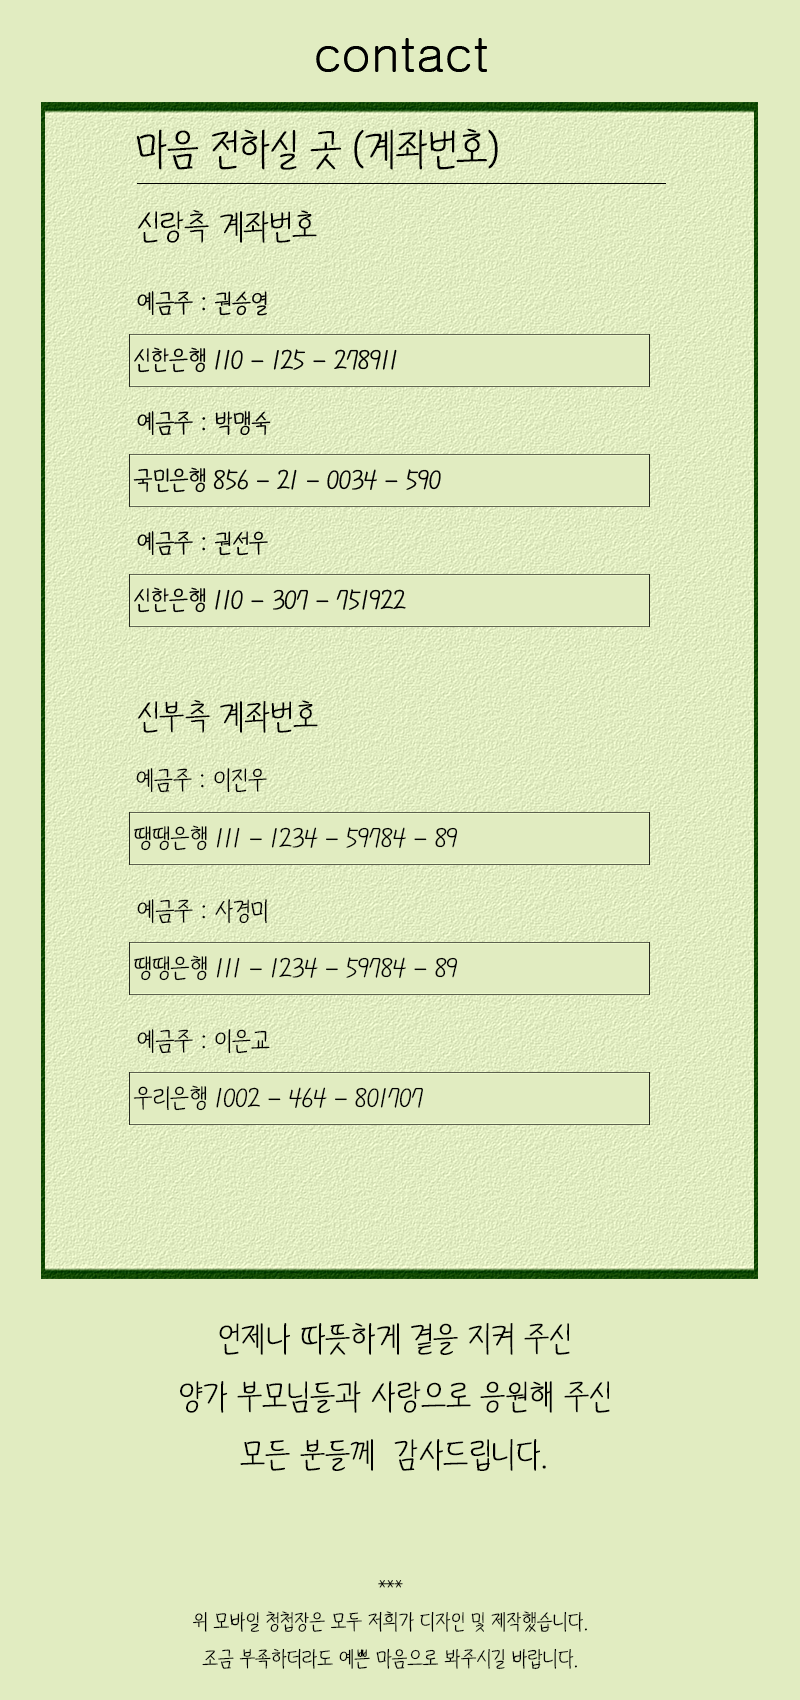
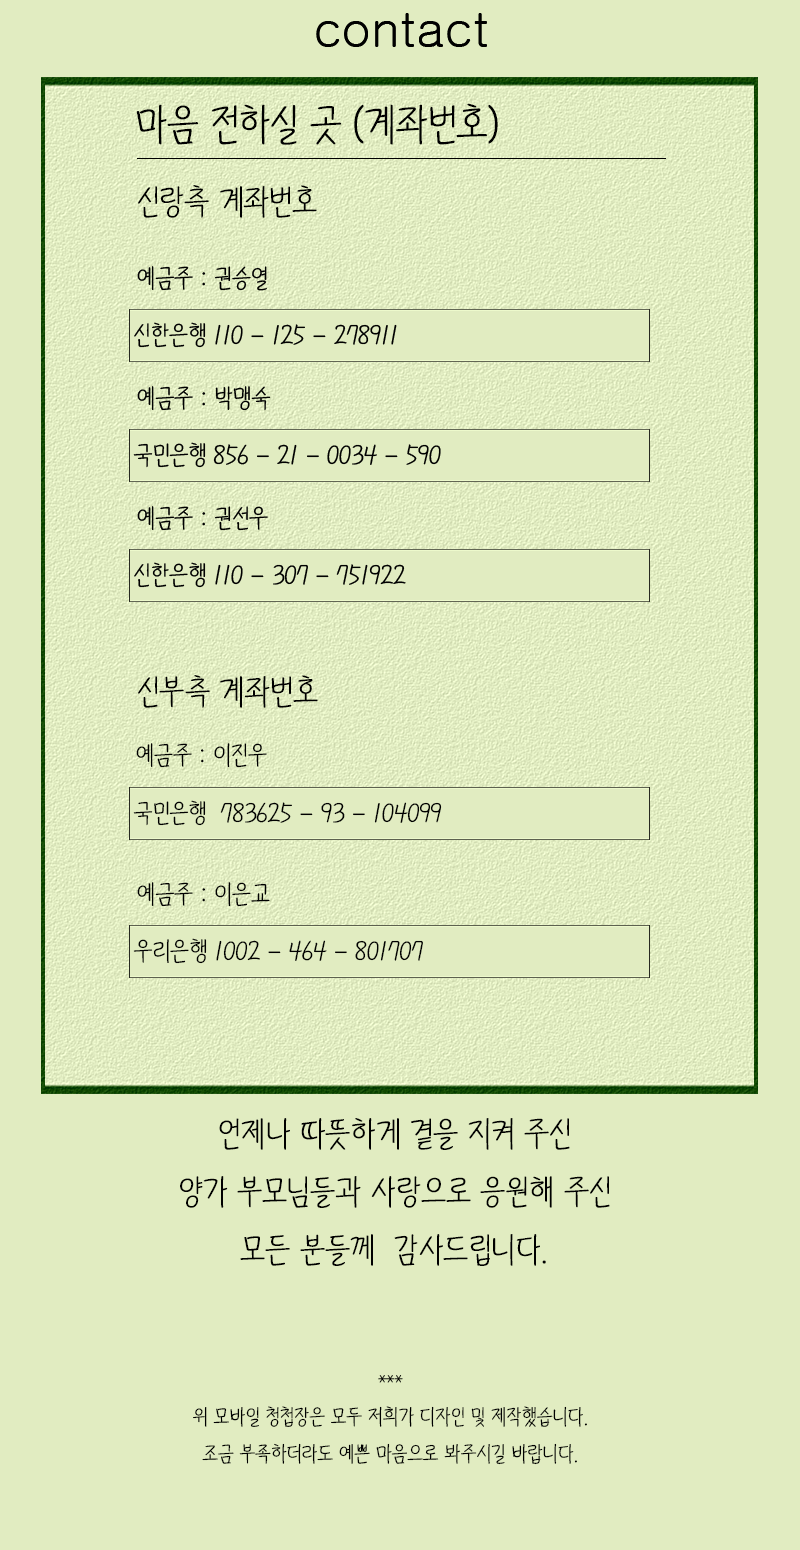
update

diff --git a/css/section.css b/css/section.css
@@ -208,7 +208,7 @@ margin-top: -2%;
 .gallary_back {
 
   position: relative;
-  margin-top: -5%;
+  margin-top: -1%;
     width: 100%;
 }
 
@@ -247,7 +247,7 @@ margin-top: -2%;
 }
 .icon1 {
     position: absolute;
-    top : 17%;
+    top : 17.1%;
     left : 70%;
     cursor: pointer;
     /* display: inline-block; */
@@ -259,7 +259,7 @@ margin-top: -2%;
 }
 .icon2 {
     position: absolute;
-    top : 24.4%;
+    top : 25.2%;
     left : 70%;
     cursor: pointer;
     /* display: inline-block; */
@@ -271,7 +271,7 @@ margin-top: -2%;
 }
 .icon3 {
     position: absolute;
-    top : 31.6%;
+    top : 33.2%;
     left : 70%;
     cursor: pointer;
     /* display: inline-block; */
@@ -283,7 +283,7 @@ margin-top: -2%;
 }
 .icon4 {
     position: absolute;
-    top : 46.1%;
+    top : 49.2%;
     left : 70%;
     cursor: pointer;
     /* display: inline-block; */
@@ -307,7 +307,7 @@ margin-top: -2%;
 }
 .icon5 {
     position: absolute;
-    top : 54.1%;
+    top : 58.4%;
     left : 70%;
     cursor: pointer;
     /* display: inline-block; */
@@ -317,22 +317,11 @@ margin-top: -2%;
     z-index: 200;
     user-select: none;
 }
-.icon6 {
-    position: absolute;
-    top : 62.1%;
-    left : 70%;
-    cursor: pointer;
-    /* display: inline-block; */
-    /* padding: 10px; */
-    background-color: #f0f0f0;
-    border-radius: 5px;
-    z-index: 200;
-    user-select: none;
-}
+
 .icon_link {
     position: absolute;
 
-    top : 87%;
+    top : 82%;
     left : 19%;
     cursor: pointer;
 

diff --git a/index.html b/index.html
@@ -153,15 +153,13 @@
       <img class = "icon_img" src="./src/contact/copy_button.png"/>
     </div>
 
-    <div class="icon4" onclick="copyToClipboard('110125278911', '계좌번호 110-125-278911 이 저장되었습니다.')">
+    <div class="icon4" onclick="copyToClipboard('78362593104099', '계좌번호 783625-93-104099 이 저장되었습니다.')">
       <img class = "icon_img" src="./src/contact/copy_button.png"/>
     </div>
-    <div class="icon5" onclick="copyToClipboard('856210034590', '계좌번호 856-21-0034-590 이 저장되었습니다.')">
+    <div class="icon5" onclick="copyToClipboard('1002464801707', '계좌번호 1002-464-801707 이 저장되었습니다.')">
       <img class = "icon_img" src="./src/contact/copy_button.png"/>
     </div>
-    <div class="icon6" onclick="copyToClipboard('110307751922', '계좌번호 110-307-751922 이 저장되었습니다.')">
-      <img class = "icon_img" src="./src/contact/copy_button.png"/>
-    </div>
+
 
     <div class="icon_link" onclick="copyToClipboard('https://limetearing.github.io/wedding_invitatoin_ver2/', '모바일 청첩장 주소가 저장되었습니다.')">
       <img class = "icon_link" src="./src/copy_link.png"/>
